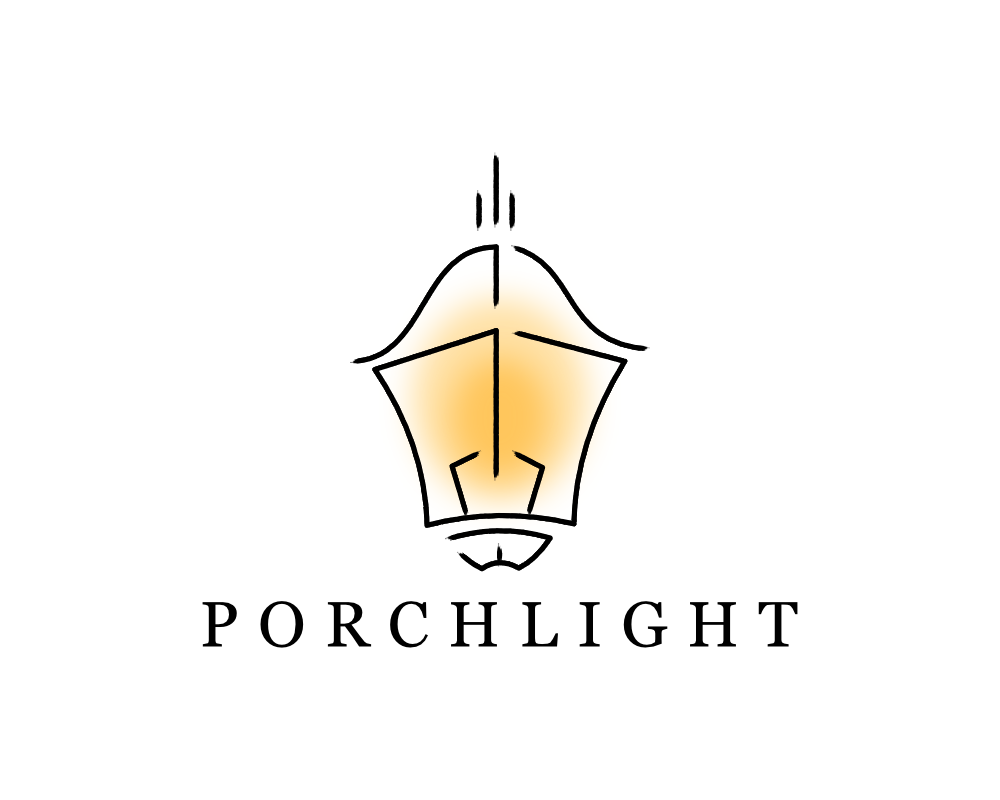
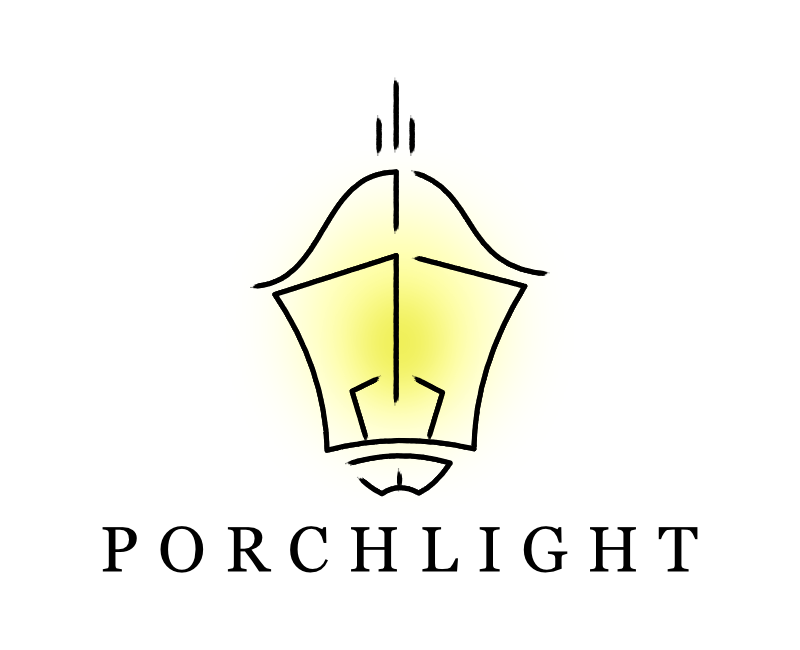
full design

Changed region(s): [[0.125, 0.1231, 0.875, 0.8923]]

diff --git a/style.css b/style.css
@@ -13,20 +13,14 @@ body {
 
 body {
   font-family: "Inter", Arial, Helvetica, sans-serif;
-  width: 100vw;
   height: 100vh;
-  padding: 1em 0.5em;
-  display: flex;
-  flex-direction: column;
-  justify-content: flex-start;
-  align-items: center;
+  max-width: 1200px;
+  margin: auto;
+  padding: 1em;
+  display: grid;
+  grid-template: min-content auto min-content/auto;
+  gap: 1em;
   text-align: center;
-}
-
-.spacer {
-  display: block;
-  width: 100vw;
-  height: 4em;
 }
 
 h1 {
@@ -57,11 +51,11 @@ a {
 }
 
 a:hover {
-  color: #e0e01a;
+  color: #eeee51;
 }
 
 a:active {
-  color: #c0c01a;
+  color: #dddd11;
 }
 
 a.homelink,
@@ -70,9 +64,35 @@ a.homelink:active {
   text-decoration: none;
 }
 
+#homeblock {
+  margin: auto;
+}
 #homeblock a {
   display: block;
   margin-bottom: 0.5em;
+}
+
+.infoblock {
+  display: grid;
+  grid: min-content min-content auto/auto;
+  gap: 1em;
+}
+
+.bioblock {
+  display: grid;
+  grid: auto/auto 1fr;
+  gap: 1em;
+  margin: auto;
+}
+.bioblock p {
+  margin: auto;
+  text-align: left;
+}
+
+#logo {
+  width: 100%;
+  max-width: 400px;
+  margin: auto;
 }
 
 #copy {

diff --git a/style.scss b/style.scss
@@ -15,20 +15,14 @@ body {
 
 body {
   font-family: 'Inter', Arial, Helvetica, sans-serif;
-  width: 100vw;
   height: 100vh;
-  padding: 1em 0.5em;
-  display: flex;
-  flex-direction: column;
-  justify-content: flex-start;
-  align-items: center;
+  max-width: 1200px;
+  margin: auto;
+  padding: 1em;
+  display: grid;
+  grid-template: min-content auto min-content / auto;
+  gap: 1em;
   text-align: center;
-}
-
-.spacer {
-  display: block;
-  width: 100vw;
-  height: 4em;
 }
 
 h1 {
@@ -68,9 +62,35 @@ a.homelink:active {
   text-decoration: none;
 }
 
-#homeblock a {
-  display: block;
-  margin-bottom: 0.5em;
+#homeblock {
+  margin: auto;
+  a {
+    display: block;
+    margin-bottom: 0.5em;
+  }
+}
+
+.infoblock {
+  display: grid;
+  grid: min-content min-content auto / auto;
+  gap: 1em;
+}
+
+.bioblock {
+  display: grid;
+  grid: auto / auto 1fr;
+  gap: 1em;
+  margin: auto;
+  p {
+    margin: auto;
+    text-align: left;
+  }
+}
+
+#logo {
+  width: 100%;
+  max-width: 400px;
+  margin: auto;
 }
 
 #copy {

diff --git a/about/index.html b/about/index.html
@@ -8,9 +8,13 @@
 </head>
 <body>
   <h1><a class="homelink" href="/">porchlight entertainment.</a></h1>
-  <div class="spacer"></div>
-  <h2>about</h2>
-  <div class="spacer"></div>
+  <div class="infoblock">
+    <h2>about us</h2>
+    <div class="bioblock">
+      <img src="/porchlight-inv.png" alt="Porchlight Entertainment" id="logo">
+      <p>Porchlight Entertainment was started in 2023 by Casey Leach. Casey is an actor, writer, director, and producer living in Los Angeles, California.</p>
+    </div>
+  </div>
   <p id="copy">&copy; Copyright 2023 Porchlight Entertainment</p>
 </body>
 </html>

diff --git a/index.html b/index.html
@@ -8,13 +8,13 @@
 </head>
 <body>
   <h1><a class="homelink" href="/">porchlight entertainment.</a></h1>
-  <div class="spacer"></div>
-  <p id="homeblock">
-    <a href="/work">Explore our work.</a>
-    <a href="/about">Learn more about us.</a>
-    <a href="/contact">Contact us.</a>
-  </p>
-  <div class="spacer"></div>
+  <div id="homeblock">
+    <p>
+      <a href="/work">Explore our work.</a>
+      <a href="/about">Learn more about us.</a>
+      <a href="/contact">Contact us.</a>
+    </p>
+  </div>
   <p id="copy">&copy; Copyright 2023 Porchlight Entertainment</p>
 </body>
 </html>

diff --git a/contact/index.html b/contact/index.html
@@ -8,9 +8,10 @@
 </head>
 <body>
   <h1><a class="homelink" href="/">porchlight entertainment.</a></h1>
-  <div class="spacer"></div>
-  <h2>contact</h2>
-  <div class="spacer"></div>
+  <div class="infoblock">
+    <h2>contact</h2>
+    <p><a href="#maillink">mail link</a></p>
+  </div>
   <p id="copy">&copy; Copyright 2023 Porchlight Entertainment</p>
 </body>
 </html>

diff --git a/work/index.html b/work/index.html
@@ -8,9 +8,9 @@
 </head>
 <body>
   <h1><a class="homelink" href="/">porchlight entertainment.</a></h1>
-  <div class="spacer"></div>
-  <h2>our work</h2>
-  <div class="spacer"></div>
+  <div class="infoblock">
+    <h2>our work</h2>
+  </div>
   <p id="copy">&copy; Copyright 2023 Porchlight Entertainment</p>
 </body>
 </html>

diff --git a/_colors.scss b/_colors.scss
@@ -1,4 +1,4 @@
 $white: #e0e0e0;
 $black: #1a1a1a;
-$yellow: #e0e01a;
-$yellow2: #c0c01a;
+$yellow: #eeee51;
+$yellow2: #dddd11;
